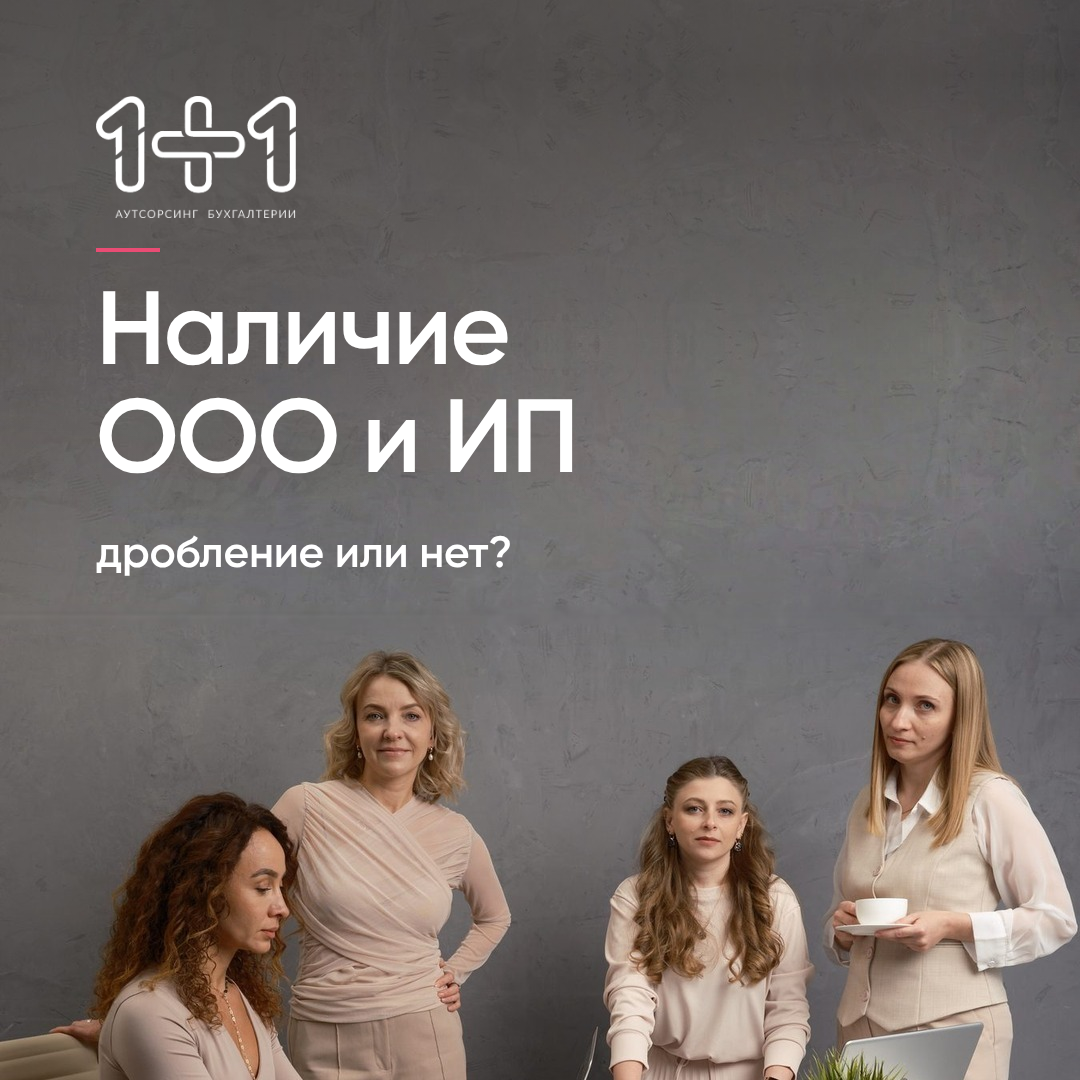
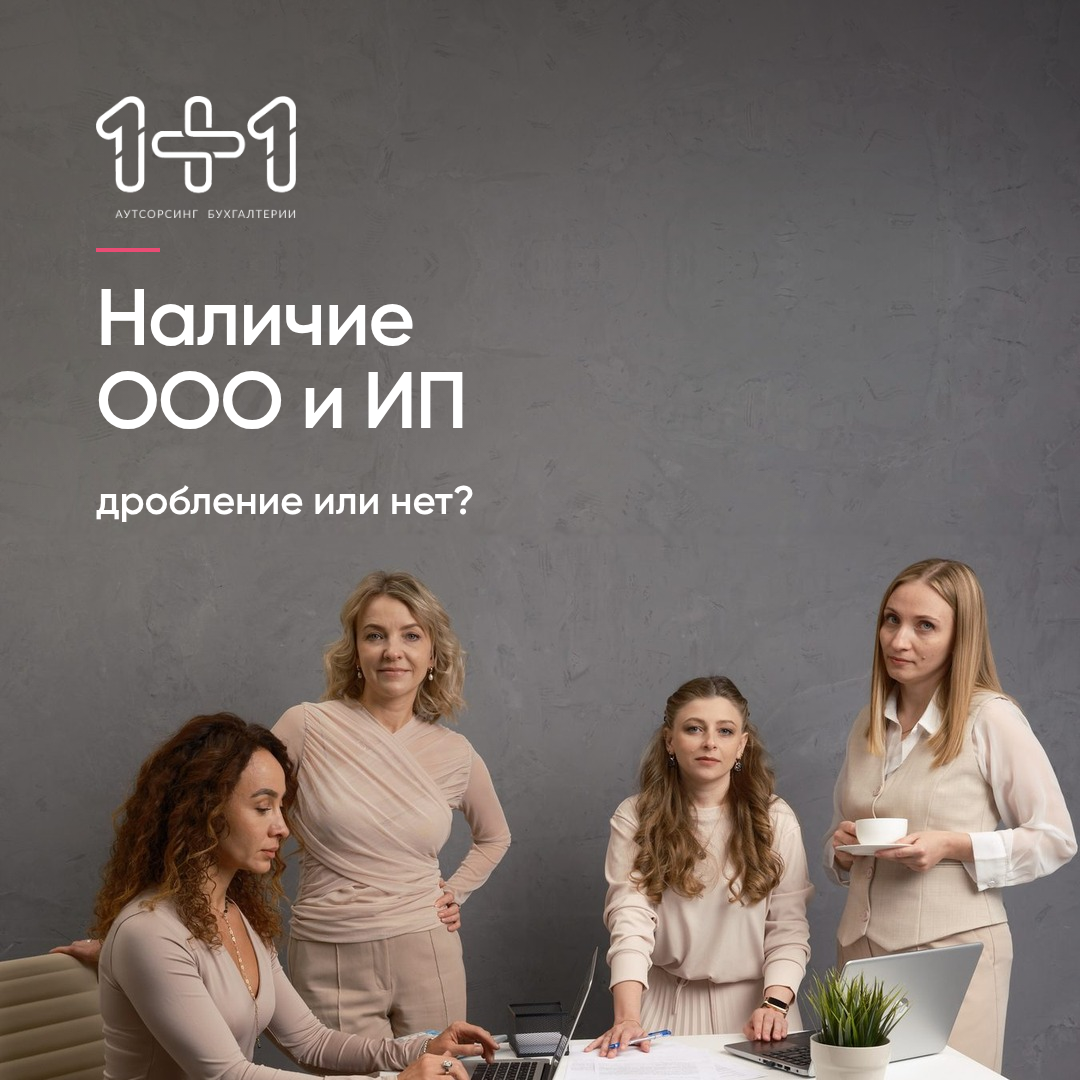
V1 crop: people visible to the waist (0289) and a second wide frame (0244); registry updated; make-square tool
Claude-Session: https://claude.ai/code/session_01VZ7Hrkur6jxoGp5f6QSiLJ

Changed region(s): [[0.0, 0.2444, 1.0, 1.0]]

diff --git a/examples/ooo-ip-v1b.html b/examples/ooo-ip-v1b.html
@@ -4,6 +4,6 @@
 <div class="canvas photo dark" style="--photo:url(../assets/team/square/concrete-0289-sq.jpg)"><div class="shade"></div>
 <img class="logo" src="../assets/logo-full-white.png" alt="">
 <div class="text-top"><div class="dash"></div>
-<div class="h-m" data-slot="title" data-fit data-sizes="104,80,62" data-max-lines="2">Наличие<br>ООО и&nbsp;ИП</div>
-<p class="sub q" data-slot="sub" data-fit data-sizes="44,40,36" data-max-lines="2" style="margin-top:30px;font-weight:600">дробление или нет?</p></div></div>
+<div class="h-m" data-slot="title" data-fit data-sizes="80,62" data-max-lines="2">Наличие<br>ООО и&nbsp;ИП</div>
+<p class="sub q" data-slot="sub" data-fit data-sizes="40,36" data-max-lines="2" style="margin-top:30px;font-weight:600">дробление или нет?</p></div></div>
 <script src="../templates/fit.js"></script></body></html>

diff --git a/examples/ooo-ip-v1c.html b/examples/ooo-ip-v1c.html
@@ -1,0 +1,9 @@
+<!doctype html><html lang="ru"><head><meta charset="utf-8"><title>V1 · Фото и заголовок</title>
+<link rel="stylesheet" href="../templates/base.css">
+<style>.q{margin-top:30px;color:#fff;font-weight:600}</style></head><body>
+<div class="canvas photo dark" style="--photo:url(../assets/team/square/concrete-0244-sq.jpg)"><div class="shade"></div>
+<img class="logo" src="../assets/logo-full-white.png" alt="">
+<div class="text-top"><div class="dash"></div>
+<div class="h-m" data-slot="title" data-fit data-sizes="80,62" data-max-lines="2">Наличие<br>ООО и&nbsp;ИП</div>
+<p class="sub q" data-slot="sub" data-fit data-sizes="40,36" data-max-lines="2" style="margin-top:30px;font-weight:600">дробление или нет?</p></div></div>
+<script src="../templates/fit.js"></script></body></html>

diff --git a/tools/make-square.py b/tools/make-square.py
@@ -1,0 +1,24 @@
+#!/usr/bin/env python3
+"""Квадрат с продлённой стеной под заголовок. python3 tools/make-square.py <кадр.jpg> <выход.jpg> <y0> <ext>
+ y0 — строка (при ширине 1080), с которой начинается фото, выше — чистая стена; ext — высота продления сверху."""
+import sys, numpy as np
+from PIL import Image, ImageFilter, ImageOps
+W=1080
+def smooth(v,k=91):
+    pad=k//2; vp=np.pad(v,((pad,pad),(0,0)),mode='edge'); ker=np.ones(k)/k
+    return np.stack([np.convolve(vp[:,c],ker,mode='valid') for c in range(3)],1)
+def build(src,dst,y0,ext):
+    im=Image.open(src).convert('RGB'); p=im.resize((W,int(im.height*W/im.width)),Image.LANCZOS)
+    S=p.crop((0,0,W,y0)); fl=ImageOps.flip(S); stack=Image.new('RGB',(W,ext)); y=ext
+    for piece in [fl,S]*6:
+        y-=piece.height; stack.paste(piece,(0,y))
+        if y<=0: break
+    c=Image.new('RGB',(W,W)); c.paste(stack,(0,0)); c.paste(p.crop((0,y0,W,y0+W-ext)),(0,ext))
+    a=np.asarray(c).astype(np.float32); seam=ext
+    up=smooth(a[seam-14:seam-2].mean(0)); dn=smooth(a[seam+2:seam+14].mean(0)); r=dn/np.maximum(up,1)
+    w=np.clip(1-(seam-np.arange(W))/420.0,0,1)
+    a[:seam]=a[:seam]*(r[None,:,:]**w[:seam,None,None])
+    out=Image.fromarray(np.clip(a,0,255).astype(np.uint8))
+    out.paste(out.crop((0,seam-8,W,seam+8)).filter(ImageFilter.GaussianBlur(1.6)),(0,seam-8))
+    out.save(dst,quality=92)
+if __name__=='__main__': build(sys.argv[1],sys.argv[2],int(sys.argv[3]),int(sys.argv[4]))

diff --git a/registry/LOG.md b/registry/LOG.md
@@ -24,5 +24,6 @@
 | 2026-10-15-17 | 2026-10-15 | Пакет предложений «Деловой России» | V2 | графит | — | «малый бизнес» | pattern-2 | предложен | без решения |
 | 2026-10-21-18 | 2026-10-21 | Наличие ООО и ИП — дробление или нет? | V1 | фото | team/square/concrete-0283-sq | черта | — | отклонён | фото уже использовано |
 | 2026-10-21-19 | 2026-10-21 | Наличие ООО и ИП — дробление или нет? | V2 | графит | — | «дробление» | pattern-2 | отклонён | чёрный макет недавно использован |
-| 2026-10-21-20 | 2026-10-21 | Наличие ООО и ИП — дробление или нет? | V1 | фото | team/square/concrete-0289-sq | черта | — | предложен | новое фото |
-| 2026-10-21-21 | 2026-10-21 | Наличие ООО и ИП — дробление или нет? | V11 | светлый | team/concrete-0297 | «дробление» | icons/ruble-badge | предложен | светлый регистр |
+| 2026-10-21-20 | 2026-10-21 | Наличие ООО и ИП — дробление или нет? | V1 | фото | team/square/concrete-0289-sq | черта | — | предложен | хороший; кроп доработан: люди видны по пояс (заголовок 80) |
+| 2026-10-21-21 | 2026-10-21 | Наличие ООО и ИП — дробление или нет? | V11 | светлый | team/concrete-0297 | «дробление» | icons/ruble-badge | отклонён | «плохой» (заказчик): не повторять V11 + concrete-0297 + знак рубль |
+| 2026-10-21-06 | 2026-10-21 | Наличие ООО и ИП — дробление или нет? | V1 | фото | team/square/concrete-0244-sq | черта | — | предложен | альтернативный кадр, люди целиком до стола |

diff --git a/docs/team-photos.md b/docs/team-photos.md
@@ -106,4 +106,7 @@
 |---|---|---|
 | `concrete-0259-sq` | `concrete-0259` | V1, V13: клиент спиной, сотрудница и стоящая коллега |
 | `concrete-0283-sq` | `concrete-0283` | V1, V13: четверо за столом |
-| `concrete-0289-sq` | `concrete-0289` | V1, V13: четыре сотрудницы стоят и сидят, крупным планом |
+| `concrete-0289-sq` | `concrete-0289` | V1, V13: четыре сотрудницы стоят и сидят, люди видны по пояс и ниже |
+| `concrete-0244-sq` | `concrete-0244` | V1, V13: четыре человека у стола, общий план, люди целиком до стола |
+
+**Как делаются квадраты:** `python3 tools/make-square.py <кадр.jpg> <выход.jpg> <y0> <ext>` (y0 — где кончается чистая стена, ext — высота продления). Правило: в квадрате люди видны **не меньше чем по пояс**, головы целиком; если заголовку нужно больше места, уменьшить заголовок на ступень (104→80), а не обрезать людей.

diff --git a/docs/claude-design-readme.md b/docs/claude-design-readme.md
@@ -36,7 +36,7 @@
 ## 3. Фото → шаблон
 | Библиотека | Что это | Шаблоны |
 |---|---|---|
-| `assets/team/square/*-sq.jpg` | кадры `concrete`, продлённая стена, готовы под текст | V1, V13 |
+| `assets/team/square/*-sq.jpg` | кадры `concrete` (0259, 0283, 0289, 0244), продлённая стена, люди видны не меньше чем по пояс | V1, V13 |
 | `assets/team/concrete-*` | команда на сером бетоне | V10 (1–2 человека), V11 (кроп) |
 | `assets/team/plaster-*`, `studio-*` | команда на светлом | V6 (`studio-0484`), V10 (1–2 человека), V11 |
 | `assets/team/color-*` | цветные декорации | V11 (`saturate(.88)`), V8 (`color-0677` флэтлей) |
